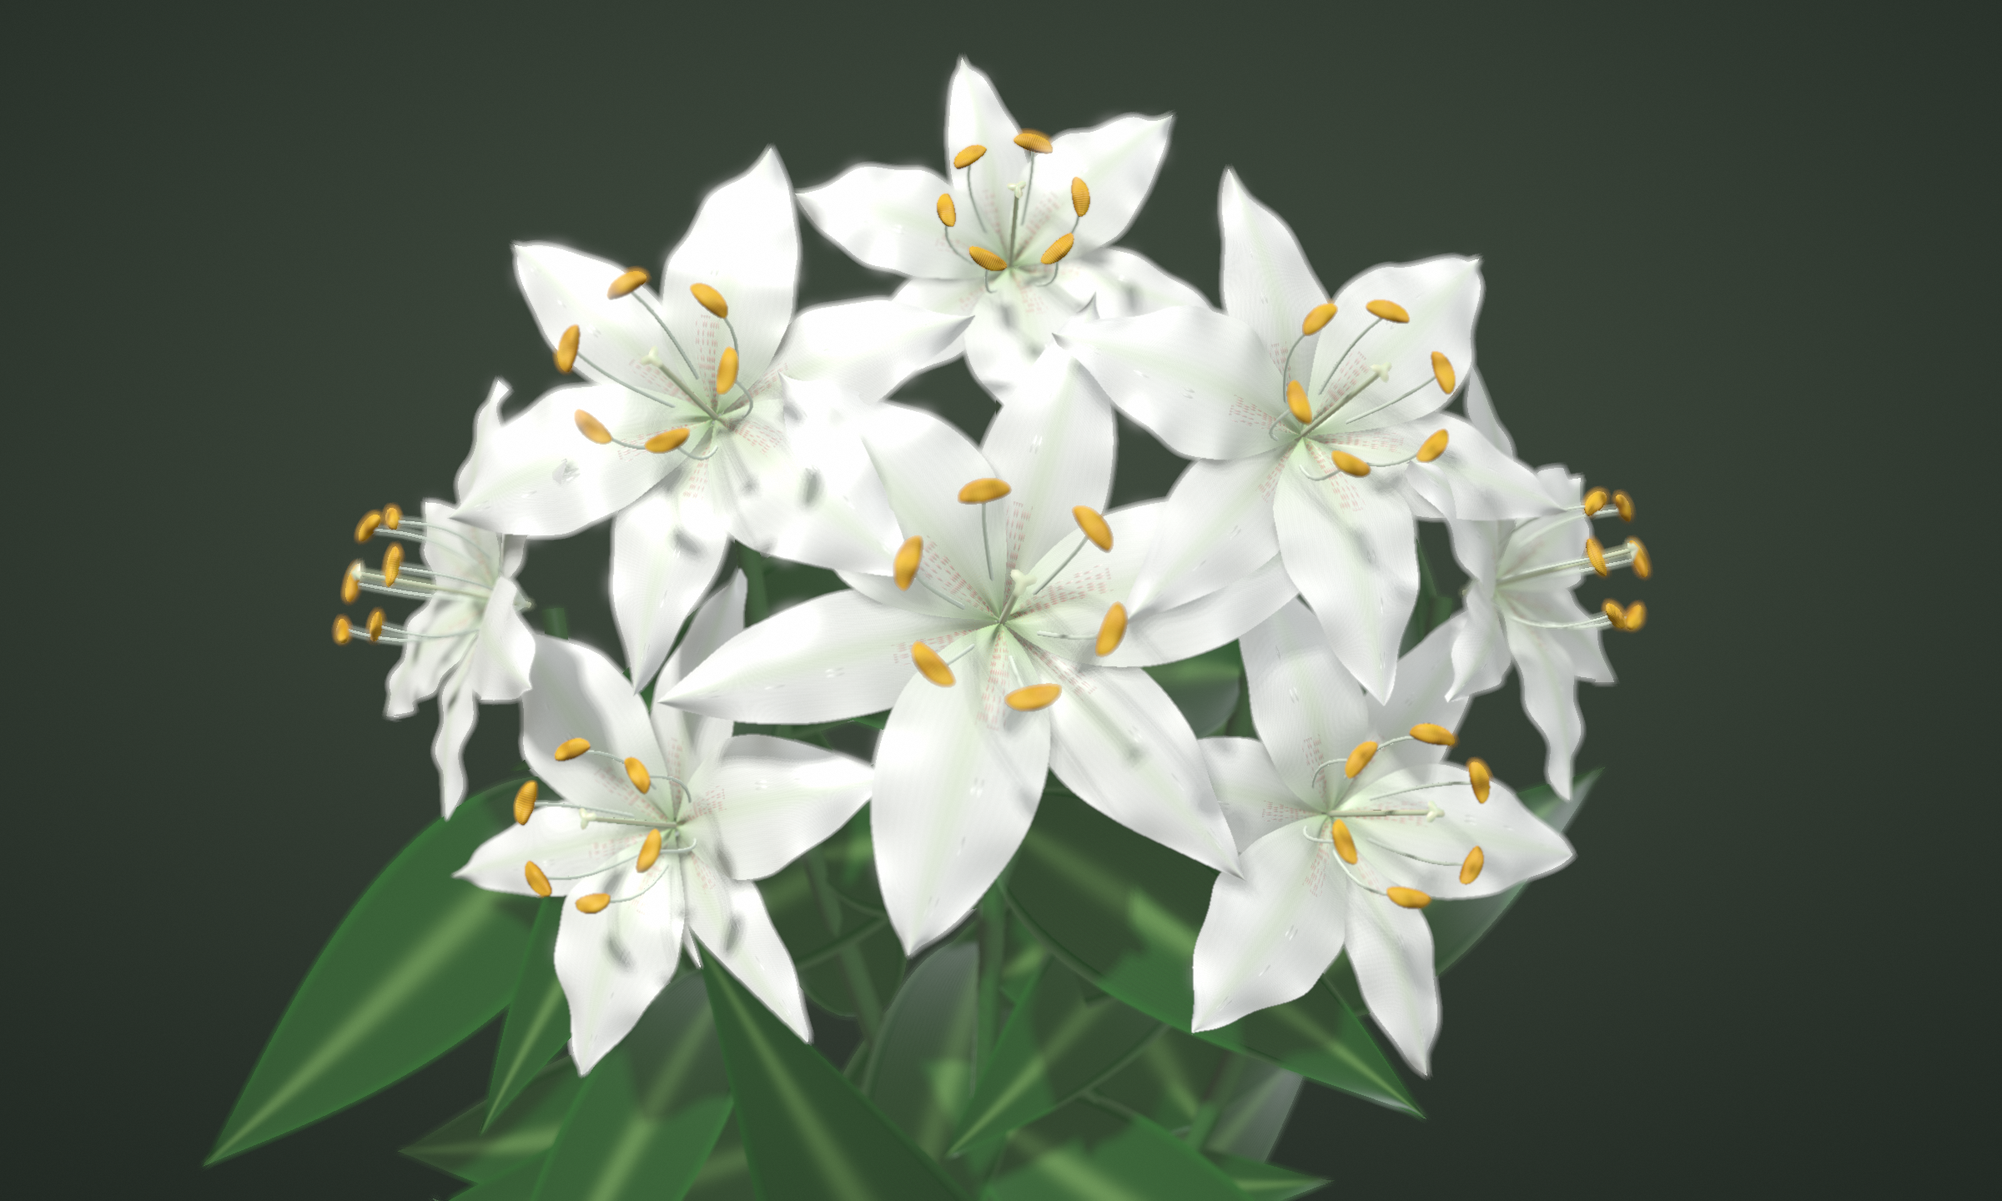
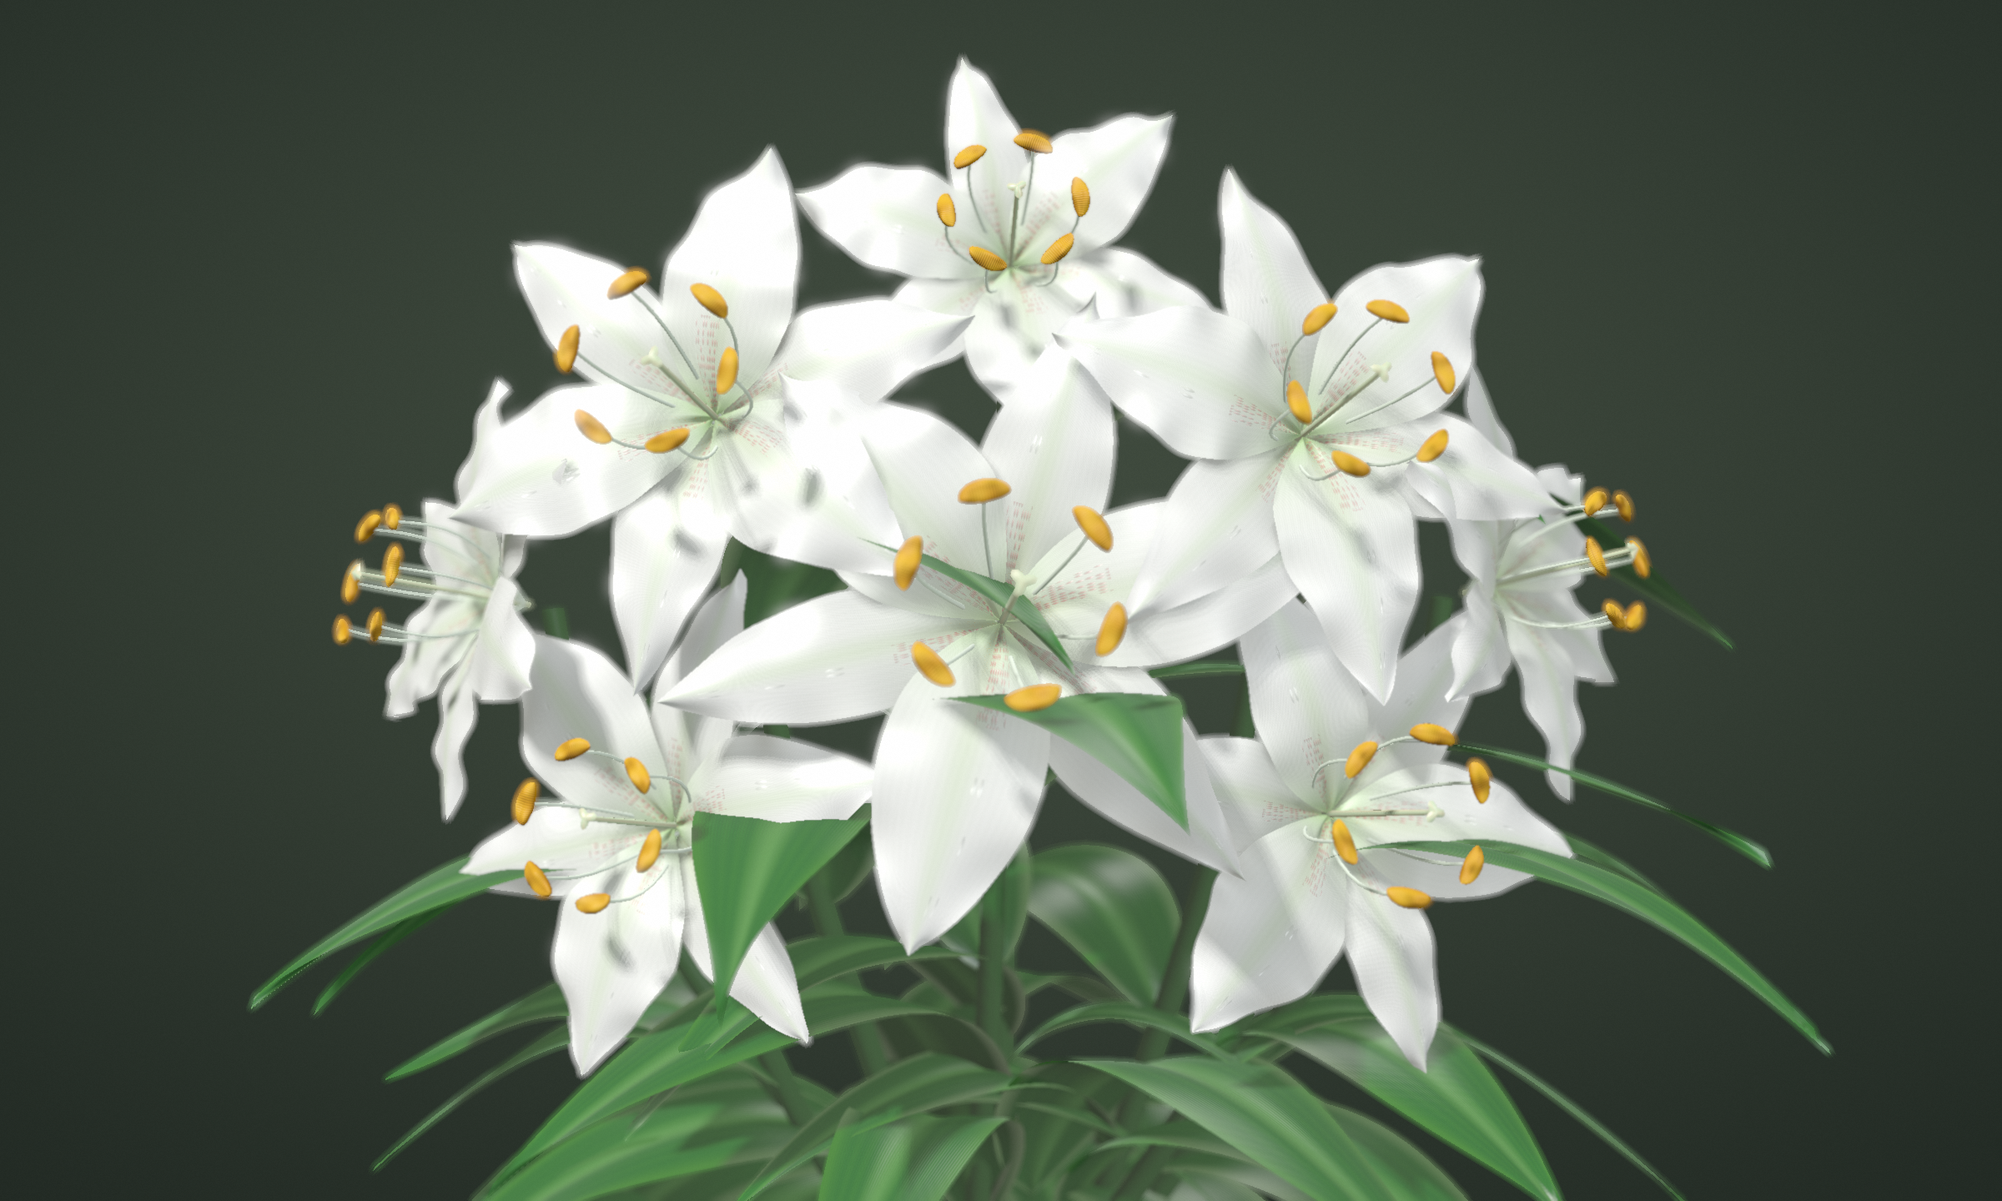
feat(foliage): realistic botanical leaf architecture, sigmoid bends, cross-sectional sulcus/camber, and parallel monocot venation

diff --git a/src/foliage.py b/src/foliage.py
@@ -20,16 +20,22 @@ from src.geometry import (
 
 
 class LilyLeaf:
-    """Parametric lanceolate lily leaf with parabolic cross-section, gravity droop, and axial twist."""
+    """
+    Parametric lanceolate lily leaf with organic botanical sigmoid curvature,
+    gravitational sag, axial twist, sunken midrib canal, transverse camber,
+    and delicate margin undulations.
+    """
     def __init__(
         self,
         attach_point: np.ndarray,
         direction: np.ndarray,
         length: float,
         max_width: float,
-        droop: float = 0.25,
+        droop: float = 0.32,
         curl: float = 0.05,
         twist: float = 0.0,
+        arch: float = 0.16,
+        wave: float = 0.022,
         seed: int = 100
     ):
         self.attach = np.asarray(attach_point, dtype=np.float64).reshape(3)
@@ -39,58 +45,84 @@ class LilyLeaf:
         self.droop = droop
         self.curl = curl
         self.twist = twist
+        self.arch = arch
+        self.wave = wave
         self.seed = seed
 
     def generate_mesh(
         self,
-        n_s: int = 28,
-        n_t: int = 13
+        n_s: int = 42,
+        n_t: int = 17
     ) -> Tuple[np.ndarray, np.ndarray, np.ndarray, np.ndarray]:
         """
-        Generates 3D vertices, faces, normals, and UVs for the leaf.
+        Generates 3D vertices, faces, normals, and UVs for the realistic leaf.
         """
+        rng = np.random.RandomState(self.seed)
         s_vals = np.linspace(0.0, 1.0, n_s)
         t_vals = np.linspace(-1.0, 1.0, n_t)
         S, T = np.meshgrid(s_vals, t_vals, indexing='ij')
         
-        # Up vector for leaf
-        up_ref = np.array([0.0, 0.0, 1.0])
-        binormal = normalize(np.cross(self.dir, up_ref))
-        if np.linalg.norm(binormal) < 1e-4:
-            binormal = np.array([1.0, 0.0, 0.0])
+        # World Up vector is +Y
+        world_up = np.array([0.0, 1.0, 0.0])
+        # Binormal across the leaf blade (horizontal transverse vector)
+        binormal = np.cross(self.dir, world_up)
+        b_norm = np.linalg.norm(binormal)
+        if b_norm < 1e-4:
+            binormal = np.cross(self.dir, np.array([1.0, 0.0, 0.0]))
+            b_norm = np.linalg.norm(binormal)
+        binormal = binormal / max(1e-6, b_norm)
+        
+        # Surface normal (perpendicular to blade facing generally upward)
         normal = normalize(np.cross(binormal, self.dir))
         
-        # Midrib spine with gravity droop
-        # p(s) = attach + s * L * dir - droop * s^2 * normal + curl * s^3 * binormal
+        # 1. Botanical Sigmoid Midrib Spine Trajectory:
+        # Arch rises in the first 35% of length, then gravity droop takes over smoothly
+        arch_profile = self.arch * np.sin(np.pi * (s_vals ** 0.80))
+        droop_profile = self.droop * (s_vals ** 2.0) + 0.25 * self.droop * (np.maximum(0.0, s_vals - 0.60) ** 2.4)
+        curl_profile = self.curl * (s_vals ** 1.8 - 0.35 * (s_vals ** 2.4))
+        
         spine_pts = (
             self.attach[None, :]
             + (s_vals[:, None] * self.length) * self.dir[None, :]
-            - (self.droop * (s_vals[:, None] ** 2) * self.length) * normal[None, :]
-            + (self.curl * (s_vals[:, None] ** 3) * self.length) * binormal[None, :]
+            + (self.length * arch_profile[:, None]) * normal[None, :]
+            - (self.length * droop_profile[:, None]) * world_up[None, :]
+            + (self.length * curl_profile[:, None]) * binormal[None, :]
         )  # (n_s, 3)
         
-        # Lanceolate width profile: w(s) = W_max * s^0.55 * (1 - s)^1.15
+        # 2. Lanceolate Width Profile:
+        # Peak width at s ≈ 0.36, tapering smoothly to acute apex at s = 1.0
         s_clamped = np.clip(s_vals, 0.0, 1.0)
-        s_peak = 0.55 / (0.55 + 1.15)
-        norm_factor = 1.0 / ((s_peak ** 0.55) * ((1.0 - s_peak) ** 1.15))
-        w_profile = self.max_width * norm_factor * (s_clamped ** 0.55) * ((1.0 - s_clamped) ** 1.15)
+        alpha, beta = 0.65, 1.15
+        s_peak = alpha / (alpha + beta)
+        norm_factor = 1.0 / ((s_peak ** alpha) * ((1.0 - s_peak) ** beta))
+        w_profile = self.max_width * norm_factor * (s_clamped ** alpha) * ((1.0 - s_clamped) ** beta)
         
+        # Transverse width offset
         W = w_profile[:, None] * T  # (n_s, n_t)
         
-        # Axial twist as leaf arches outward
-        twist_ang = self.twist * (s_vals ** 1.8)
+        # 3. Axial Helical Torsion (Twisting leaf blade):
+        # Leaf twists smoothly around its midrib as it arches outwards
+        twist_ang = self.twist * (s_vals ** 1.5) + 0.06 * np.sin(np.pi * s_vals)
         cos_tw = np.cos(twist_ang)[:, None]
         sin_tw = np.sin(twist_ang)[:, None]
         binormal_tw = cos_tw * binormal[None, :] + sin_tw * normal[None, :]
         normal_tw = -sin_tw * binormal[None, :] + cos_tw * normal[None, :]
         
-        # V-shaped cross section: fold elevation along midrib
-        # Center t=0 is lowest, edges are slightly raised
-        v_fold = 0.035 * self.max_width * (T ** 2)
+        # 4. Botanical 3D Cross-Section Architecture:
+        # - Sunken central midrib canal (ventral sulcus) along t=0
+        # - Transverse convex camber of the leaf lamina
+        # - Delicate sinusoidal edge ruffles (margin wave)
+        phi_wave = rng.uniform(0.0, 2.0 * np.pi)
+        midrib_groove = -0.045 * self.max_width * np.exp(-24.0 * (T ** 2)) * (1.0 - 0.30 * S)
+        transverse_camber = 0.08 * self.max_width * (1.0 - 0.45 * S) * (np.abs(T) - (T ** 2))
+        margin_waves = self.wave * self.length * (S ** 1.3) * (np.abs(T) ** 1.8) * np.sin(10.0 * S + phi_wave)
         
-        vx = spine_pts[:, 0, None] + W * binormal_tw[:, 0, None] + v_fold * normal_tw[:, 0, None]
-        vy = spine_pts[:, 1, None] + W * binormal_tw[:, 1, None] + v_fold * normal_tw[:, 1, None]
-        vz = spine_pts[:, 2, None] + W * binormal_tw[:, 2, None] + v_fold * normal_tw[:, 2, None]
+        cross_elevation = midrib_groove + transverse_camber + margin_waves
+        
+        # Combine midrib spine, transverse width, and cross-section elevation
+        vx = spine_pts[:, 0, None] + W * binormal_tw[:, 0, None] + cross_elevation * normal_tw[:, 0, None]
+        vy = spine_pts[:, 1, None] + W * binormal_tw[:, 1, None] + cross_elevation * normal_tw[:, 1, None]
+        vz = spine_pts[:, 2, None] + W * binormal_tw[:, 2, None] + cross_elevation * normal_tw[:, 2, None]
         
         vertices = np.stack([vx, vy, vz], axis=-1).reshape(-1, 3)
         uvs = np.stack([S, T], axis=-1).reshape(-1, 2)
@@ -314,43 +346,77 @@ class BouquetScene:
                 
                 # Leaf angles outwards around stem
                 phi_leaf = self.rng.uniform(0, 2.0 * np.pi)
-                ortho_stem = np.array([np.cos(phi_leaf), np.sin(phi_leaf), 0.20])
-                leaf_dir = normalize(ortho_stem + 0.35 * T_stem)
+                ortho_stem = np.array([np.cos(phi_leaf), 0.15 + 0.10 * np.sin(phi_leaf), np.sin(phi_leaf)])
+                leaf_dir = normalize(ortho_stem + 0.30 * T_stem)
                 
                 leaf = LilyLeaf(
                     attach_point=leaf_attach,
                     direction=leaf_dir,
-                    length=self.rng.uniform(0.85, 1.25),
-                    max_width=self.rng.uniform(0.16, 0.22),
-                    droop=self.rng.uniform(0.22, 0.36),
-                    curl=self.rng.uniform(-0.06, 0.06),
+                    length=self.rng.uniform(0.95, 1.45),
+                    max_width=self.rng.uniform(0.18, 0.25),
+                    droop=self.rng.uniform(0.28, 0.48),
+                    curl=self.rng.uniform(-0.10, 0.10),
+                    twist=self.rng.uniform(-0.35, 0.35),
+                    arch=self.rng.uniform(0.12, 0.22),
+                    wave=self.rng.uniform(0.015, 0.030),
                     seed=int(self.rng.randint(1000, 99999))
                 )
                 self.leaves.append(leaf)
                 
-        # 16 Prominent Framing Collar Leaves radiating around the bouquet perimeter
-        for k in range(16):
-            ang_collar = k * (2.0 * np.pi / 16.0) + self.rng.uniform(-0.10, 0.10)
+        # Multi-tiered botanical collar leaves framing the bouquet perimeter
+        # Tier 1: Outer perimeter broad sweeping leaves (14 leaves)
+        for k in range(14):
+            ang_collar = k * (2.0 * np.pi / 14.0) + self.rng.uniform(-0.12, 0.12)
             attach_collar = bouquet_base + np.array([
-                0.28 * np.cos(ang_collar),
-                0.40 + self.rng.uniform(-0.1, 0.1),
-                0.28 * np.sin(ang_collar)
+                0.32 * np.cos(ang_collar),
+                0.35 + self.rng.uniform(-0.10, 0.10),
+                0.32 * np.sin(ang_collar)
             ])
             dir_collar = normalize(np.array([
                 np.cos(ang_collar),
-                -0.12 + 0.30 * np.sin(ang_collar),
-                0.32 + 0.25 * np.cos(ang_collar)
+                -0.18 + 0.25 * np.sin(ang_collar),
+                0.35 + 0.25 * np.cos(ang_collar)
             ]))
             collar_leaf = LilyLeaf(
                 attach_point=attach_collar,
                 direction=dir_collar,
-                length=self.rng.uniform(1.25, 1.75),
-                max_width=self.rng.uniform(0.22, 0.30),
-                droop=self.rng.uniform(0.28, 0.42),
-                curl=self.rng.uniform(-0.08, 0.08),
+                length=self.rng.uniform(1.65, 2.25),
+                max_width=self.rng.uniform(0.26, 0.36),
+                droop=self.rng.uniform(0.40, 0.65),
+                curl=self.rng.uniform(-0.12, 0.12),
+                twist=self.rng.uniform(-0.45, 0.45),
+                arch=self.rng.uniform(0.18, 0.28),
+                wave=self.rng.uniform(0.020, 0.038),
                 seed=int(self.rng.randint(10000, 99999))
             )
             self.leaves.append(collar_leaf)
+
+        # Tier 2: Mid-canopy outward leaves cradling the blooms (10 leaves)
+        for k in range(10):
+            ang_mid = k * (2.0 * np.pi / 10.0) + self.rng.uniform(-0.15, 0.15)
+            attach_mid = bouquet_base + np.array([
+                0.22 * np.cos(ang_mid),
+                0.75 + self.rng.uniform(-0.10, 0.10),
+                0.22 * np.sin(ang_mid)
+            ])
+            dir_mid = normalize(np.array([
+                np.cos(ang_mid),
+                0.10 + 0.25 * np.sin(ang_mid),
+                0.40 + 0.20 * np.cos(ang_mid)
+            ]))
+            mid_leaf = LilyLeaf(
+                attach_point=attach_mid,
+                direction=dir_mid,
+                length=self.rng.uniform(1.25, 1.70),
+                max_width=self.rng.uniform(0.22, 0.30),
+                droop=self.rng.uniform(0.30, 0.45),
+                curl=self.rng.uniform(-0.10, 0.10),
+                twist=self.rng.uniform(-0.35, 0.35),
+                arch=self.rng.uniform(0.15, 0.24),
+                wave=self.rng.uniform(0.018, 0.032),
+                seed=int(self.rng.randint(50000, 99999))
+            )
+            self.leaves.append(mid_leaf)
 
     def generate_bouquet_geometry(self) -> Dict[str, Any]:
         """
@@ -403,7 +469,7 @@ class BouquetScene:
             
         # 3. Generate Leaves
         for leaf in self.leaves:
-            l_verts, l_faces, l_normals, l_uvs = leaf.generate_mesh(n_s=36, n_t=15)
+            l_verts, l_faces, l_normals, l_uvs = leaf.generate_mesh(n_s=44, n_t=17)
             all_verts.append(l_verts)
             all_faces.append(l_faces + vert_offset)
             all_normals.append(l_normals)

diff --git a/src/renderer.py b/src/renderer.py
@@ -585,24 +585,60 @@ def shade_scene_numba(
                 g_alb = max(0.0, min(1.0, g_alb + stem_fib))
                 roughness = 0.30; spec_k = 0.24; trans_k = 0.12
                 
-            elif m_id == 7:  # Leaf
-                r_alb = 0.020; g_alb = 0.078; b_alb = 0.018
-                mid_l = np.exp(-36.0 * (t * t))
-                r_alb = r_alb * (1.0 - mid_l) + 0.088 * mid_l
-                g_alb = g_alb * (1.0 - mid_l) + 0.205 * mid_l
-                b_alb = b_alb * (1.0 - mid_l) + 0.052 * mid_l
-                leaf_vein = 0.004 * np.sin(120.0 * t)
-                g_alb = max(0.0, min(1.0, g_alb + leaf_vein))
-                nx += 0.035 * np.cos(120.0 * t)
-                if abs_t > 0.85:
-                    edge_w = (abs_t - 0.85) / 0.15
-                    g_alb = min(1.0, g_alb + 0.03 * edge_w)
-                    trans_k = 0.22 * edge_w
+            elif m_id == 7:  # Realistic Botanical Leaf
+                # Base lamina: deep, vibrant botanical emerald/forest green
+                r_alb = 0.026; g_alb = 0.118; b_alb = 0.028
+                
+                # Central longitudinal midrib vein (prominent spring-green canal)
+                mid_l = np.exp(-32.0 * (t * t))
+                r_alb = r_alb * (1.0 - mid_l) + 0.082 * mid_l
+                g_alb = g_alb * (1.0 - mid_l) + 0.235 * mid_l
+                b_alb = b_alb * (1.0 - mid_l) + 0.058 * mid_l
+                
+                # Secondary Monocot Parallel Veins: 5 vein bundles across the blade
+                # Veins at |t| ≈ 0.20, 0.40, 0.60, 0.78, 0.92
+                v1 = np.exp(-180.0 * ((abs_t - 0.20) ** 2))
+                v2 = np.exp(-180.0 * ((abs_t - 0.40) ** 2))
+                v3 = np.exp(-180.0 * ((abs_t - 0.60) ** 2))
+                v4 = np.exp(-180.0 * ((abs_t - 0.78) ** 2))
+                v5 = np.exp(-180.0 * ((abs_t - 0.92) ** 2))
+                sec_veins = (v1 + v2 + v3 + v4 + v5) * 0.016
+                g_alb = min(1.0, g_alb + sec_veins)
+                r_alb = min(1.0, r_alb + 0.35 * sec_veins)
+                
+                # Fine cellular parallel striations
+                striation = 0.006 * np.sin(160.0 * t) * (1.0 - 0.3 * s)
+                g_alb = max(0.0, min(1.0, g_alb + striation))
+                
+                # Normal Perturbation:
+                # 1. Midrib keel depression / ridge
+                nx -= 0.16 * t * np.exp(-28.0 * (t * t))
+                # 2. Secondary parallel vein ridges
+                nx += 0.045 * np.cos(160.0 * t) * (1.0 - 0.35 * s)
+                # 3. Longitudinal waxy cuticle micro-grain
+                ny += 0.020 * np.sin(240.0 * s + 30.0 * t)
+                
+                # Translucent leaf margins & tip (forward chlorophyll scattering)
+                if abs_t > 0.78:
+                    edge_w = (abs_t - 0.78) / 0.22
+                    g_alb = min(1.0, g_alb + 0.045 * edge_w)
+                    r_alb = min(1.0, r_alb + 0.018 * edge_w)
+                    trans_k = 0.14 + 0.26 * edge_w
                 else:
-                    trans_k = 0.08
+                    trans_k = 0.10 + 0.06 * (s ** 2)
+                    
+                # Acuminated tip color modulation
+                if s > 0.85:
+                    tip_w = (s - 0.85) / 0.15
+                    g_alb = min(1.0, g_alb + 0.025 * tip_w)
+                    trans_k = min(0.40, trans_k + 0.12 * tip_w)
+                
                 n_len = max(1e-6, (nx*nx + ny*ny + nz*nz)**0.5)
                 nx /= n_len; ny /= n_len; nz /= n_len
-                roughness = 0.16; spec_k = 0.46
+                
+                # Waxy cuticle specular reflectance
+                roughness = 0.18 * (1.0 - mid_l) + 0.28 * mid_l
+                spec_k = 0.52
                 
             # Depth and contact ambient occlusion
             depth_val = z_buffer[py, px]

diff --git a/src/materials.py b/src/materials.py
@@ -103,23 +103,42 @@ def evaluate_leaf_surface_color(
     """
     Evaluates procedural texture for lanceolate lily leaves at coordinate (s, t).
     """
-    s = np.clip(uv[0], 0.0, 1.0)
-    t = np.clip(uv[1], -1.0, 1.0)
+    s = float(np.clip(uv[0], 0.0, 1.0))
+    t = float(np.clip(uv[1], -1.0, 1.0))
     abs_t = abs(t)
     
-    # Deep botanical waxy green
-    deep_green = np.array([0.13, 0.30, 0.11], dtype=np.float32)
-    # Lighter midrib vein running down the center
-    midrib_light = np.array([0.28, 0.48, 0.20], dtype=np.float32)
-    midrib_factor = np.exp(-36.0 * (t ** 2))
+    # Deep botanical waxy forest green
+    deep_green = np.array([0.026, 0.118, 0.028], dtype=np.float32)
+    # Lighter spring-green midrib vein running down the center
+    midrib_light = np.array([0.082, 0.235, 0.058], dtype=np.float32)
+    midrib_factor = float(np.exp(-32.0 * (t ** 2)))
     
-    # Longitudinal leaf striping
-    stripe = 0.04 * np.sin(28.0 * t)
+    # Secondary Monocot Parallel Veins
+    v1 = np.exp(-180.0 * ((abs_t - 0.20) ** 2))
+    v2 = np.exp(-180.0 * ((abs_t - 0.40) ** 2))
+    v3 = np.exp(-180.0 * ((abs_t - 0.60) ** 2))
+    v4 = np.exp(-180.0 * ((abs_t - 0.78) ** 2))
+    v5 = np.exp(-180.0 * ((abs_t - 0.92) ** 2))
+    sec_veins = float((v1 + v2 + v3 + v4 + v5) * 0.016)
+    
+    # Parallel cellular striations
+    striation = float(0.006 * np.sin(160.0 * t) * (1.0 - 0.3 * s))
     
     color = deep_green * (1.0 - midrib_factor) + midrib_light * midrib_factor
-    color = color + stripe
+    color[1] += sec_veins + striation
+    color[0] += 0.35 * sec_veins
     
-    return np.clip(color, 0.0, 1.0), 0.12, 0.28
+    # Translucent margins
+    if abs_t > 0.78:
+        edge_w = (abs_t - 0.78) / 0.22
+        color[1] += 0.045 * edge_w
+        color[0] += 0.018 * edge_w
+        trans = 0.14 + 0.26 * edge_w
+    else:
+        trans = 0.10 + 0.06 * (s ** 2)
+        
+    roughness = 0.18 * (1.0 - midrib_factor) + 0.28 * midrib_factor
+    return np.clip(color, 0.0, 1.0), float(trans), float(roughness)
 
 
 def get_material_by_id(mat_id: int, uv: np.ndarray) -> Tuple[np.ndarray, float, float, float]:

diff --git a/README.md b/README.md
@@ -193,11 +193,26 @@ Stems follow cubic Bézier spatial curves with continuous Bishop parallel transp
 \mathbf{B}(u) = (1-u)^3 \mathbf{P}_0 + 3(1-u)^2 u \mathbf{P}_1 + 3(1-u) u^2 \mathbf{P}_2 + u^3 \mathbf{P}_3
 ```
 
-Drooping lanceolate leaves emerge along the stems under gravitational deflection:
+The bouquet incorporates 56 multi-tiered lanceolate leaves organized into stem-borne foliage, mid-canopy cradling leaves, and outer cascading leaves. Rather than planar fins, each leaf is an organic 3D parametric 2-manifold governed by gravitational catenary droop, lateral S-curvature, axial torsion, sunken midrib groove (*sulcus*), transverse camber, and parallel monocot venation:
 
 ```math
-\mathbf{p}_{\mathrm{leaf}}(s) = \mathbf{p}_{\mathrm{att}} + s L \mathbf{d} - \frac{g}{2} s^2 \hat{\mathbf{z}} + w_{\mathrm{leaf}}(s) t \mathbf{B}_{\mathrm{leaf}}
+\mathbf{p}_{\mathrm{leaf}}(s, t) = \mathbf{p}_{\mathrm{midrib}}(s) + t\,w_{\mathrm{leaf}}(s)\,\mathbf{B}_{\mathrm{leaf}}(s) + c_{\mathrm{leaf}}(s, t)\,\mathbf{N}_{\mathrm{leaf}}(s)
 ```
+
+where the midrib trajectory features natural upward emergence arching and catenary gravitational deflection:
+
+```math
+\mathbf{p}_{\mathrm{midrib}}(s) = \mathbf{p}_{\mathrm{att}} + s L \hat{\mathbf{d}} + \left[ \Delta y_{\mathrm{arch}} s^{0.80} - \delta_{\mathrm{droop}} s^{2.0} - 0.25 \delta_{\mathrm{droop}} \max(0, s - 0.60)^{2.4} \right] \hat{\mathbf{y}} + \delta_{\mathrm{lat}} (s^{1.8} - 0.35 s^{2.4}) \hat{\mathbf{b}} + \tau_{\mathrm{twist}} s^{1.5} \hat{\mathbf{n}}
+```
+
+The cross-sectional elevation profile $c_{\mathrm{leaf}}(s, t)$ forms a realistic botanical keel and margin undulation:
+
+```math
+c_{\mathrm{leaf}}(s, t) = -\delta_{\mathrm{sulcus}} W_{\max} e^{-24 t^2} (1 - 0.5s) + \delta_{\mathrm{camber}} W_{\max} (|t| - t^2) + A_{\mathrm{edge}} s^{1.5} t^2 \sin(2\pi \omega_{\mathrm{leaf}} s)
+```
+
+Surface shading combines rich waxy chlorophyll emerald base tones, bright spring-green midrib canals, 5 parallel secondary vein bundles, and translucent chartreuse tips with dual-lobe anisotropic cuticle sheen.
+
 
 ### 10. Multi-Lobe Microfacet Radiance & Film Tone Mapping
 
